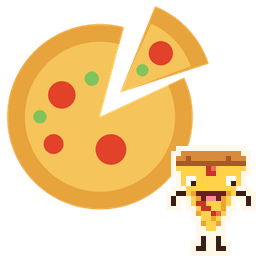
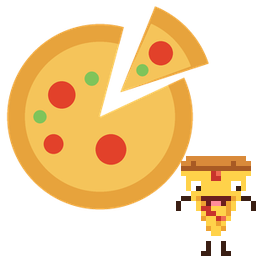
fix: Peppo senza contorno chiaro nell'icona delle notifiche
Con il tema scuro di GNOME le notifiche hanno sfondo scuro e il bordo
chiaro di un pixel attorno a Peppo stonava. Tolto dal generatore e
icona rigenerata.

Changed region(s): [[0.6562, 0.5625, 1.0, 1.0]]

diff --git a/assets/generate-notification-icon.py b/assets/generate-notification-icon.py
@@ -7,7 +7,7 @@ vede la notifica riconosce l'app e capisce che a chiamarlo e' una sessione.
 
 Peppo si legge dal suo sprite (renderer/pets-sprite-pizza.js, posa `idle`)
 tramite node: niente copia della griglia qui. Pixel ingranditi senza
-interpolazione, con un bordo chiaro di un pixel per staccarlo dalla pizza.
+interpolazione, senza bordo: con il tema scuro un contorno chiaro stona.
 
 Uso: python3 assets/generate-notification-icon.py
 """
@@ -21,7 +21,6 @@ ROOT = Path(__file__).resolve().parent.parent
 SIZE = 256
 PIZZA_SIZE = 216     # la pizza lascia spazio a Peppo nell'angolo
 PIXEL = 5            # lato di un pixel di Peppo
-OUTLINE = (255, 248, 235, 255)
 
 NODE_DUMP = """
 const s = require(process.argv[1]).pizza;
@@ -50,17 +49,12 @@ def crop(rows):
 def render_peppo(rows, palette):
     rows = crop(rows)
     h, w = len(rows), len(rows[0])
-    # Un pixel di margine per il bordo
-    img = Image.new('RGBA', ((w + 2) * PIXEL, (h + 2) * PIXEL), (0, 0, 0, 0))
-    cells = {(x + 1, y + 1) for y, r in enumerate(rows) for x, ch in enumerate(r) if ch != '.'}
-    ring = {(x + dx, y + dy) for x, y in cells for dx in (-1, 0, 1) for dy in (-1, 0, 1)} - cells
-    for x, y in ring:
-        img.paste(OUTLINE, (x * PIXEL, y * PIXEL, (x + 1) * PIXEL, (y + 1) * PIXEL))
+    img = Image.new('RGBA', (w * PIXEL, h * PIXEL), (0, 0, 0, 0))
     for y, r in enumerate(rows):
         for x, ch in enumerate(r):
             if ch == '.':
                 continue
-            box = ((x + 1) * PIXEL, (y + 1) * PIXEL, (x + 2) * PIXEL, (y + 2) * PIXEL)
+            box = (x * PIXEL, y * PIXEL, (x + 1) * PIXEL, (y + 1) * PIXEL)
             img.paste(hex_rgba(palette[ch]), box)
     return img
 
